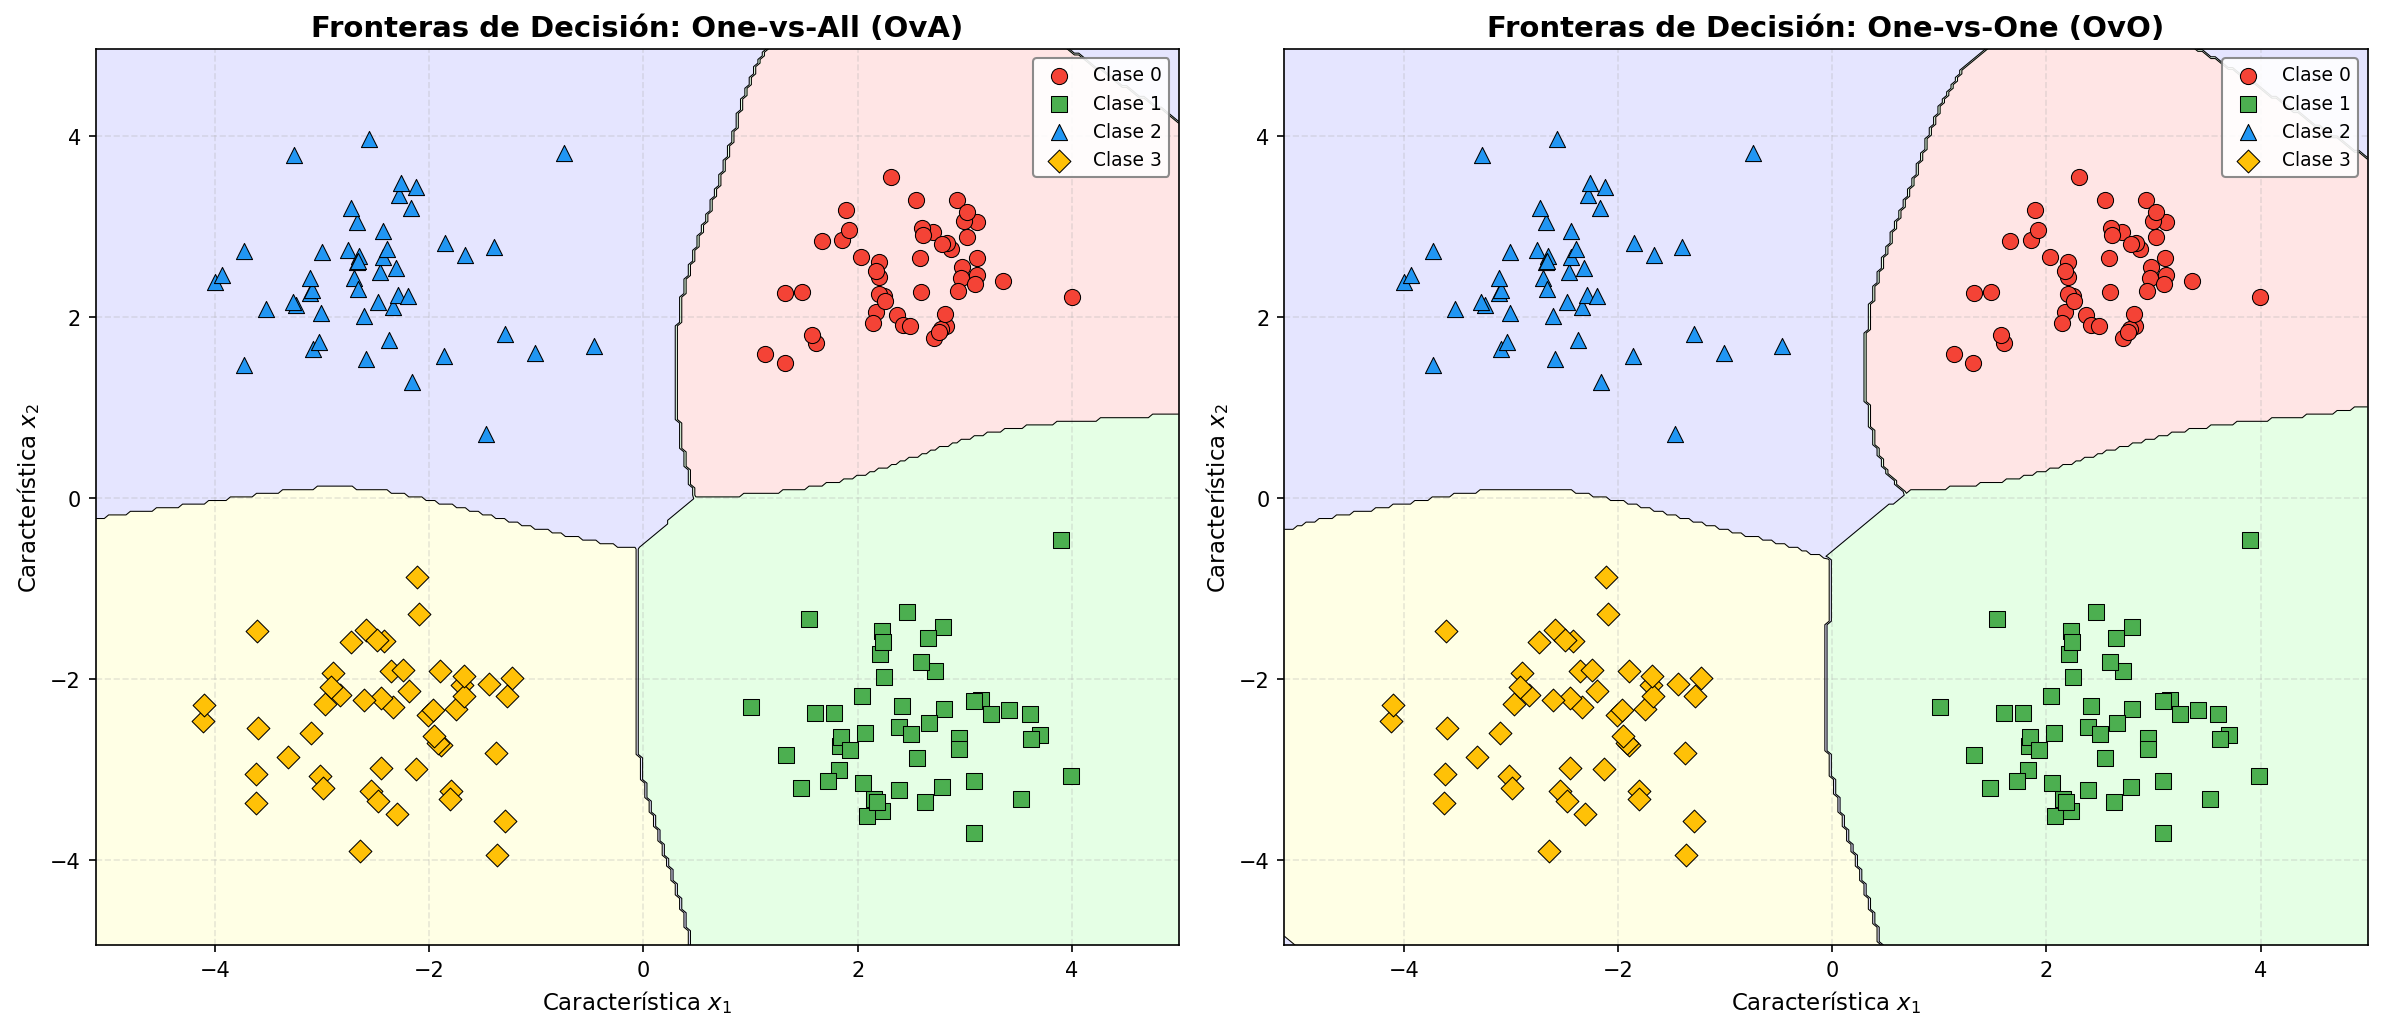
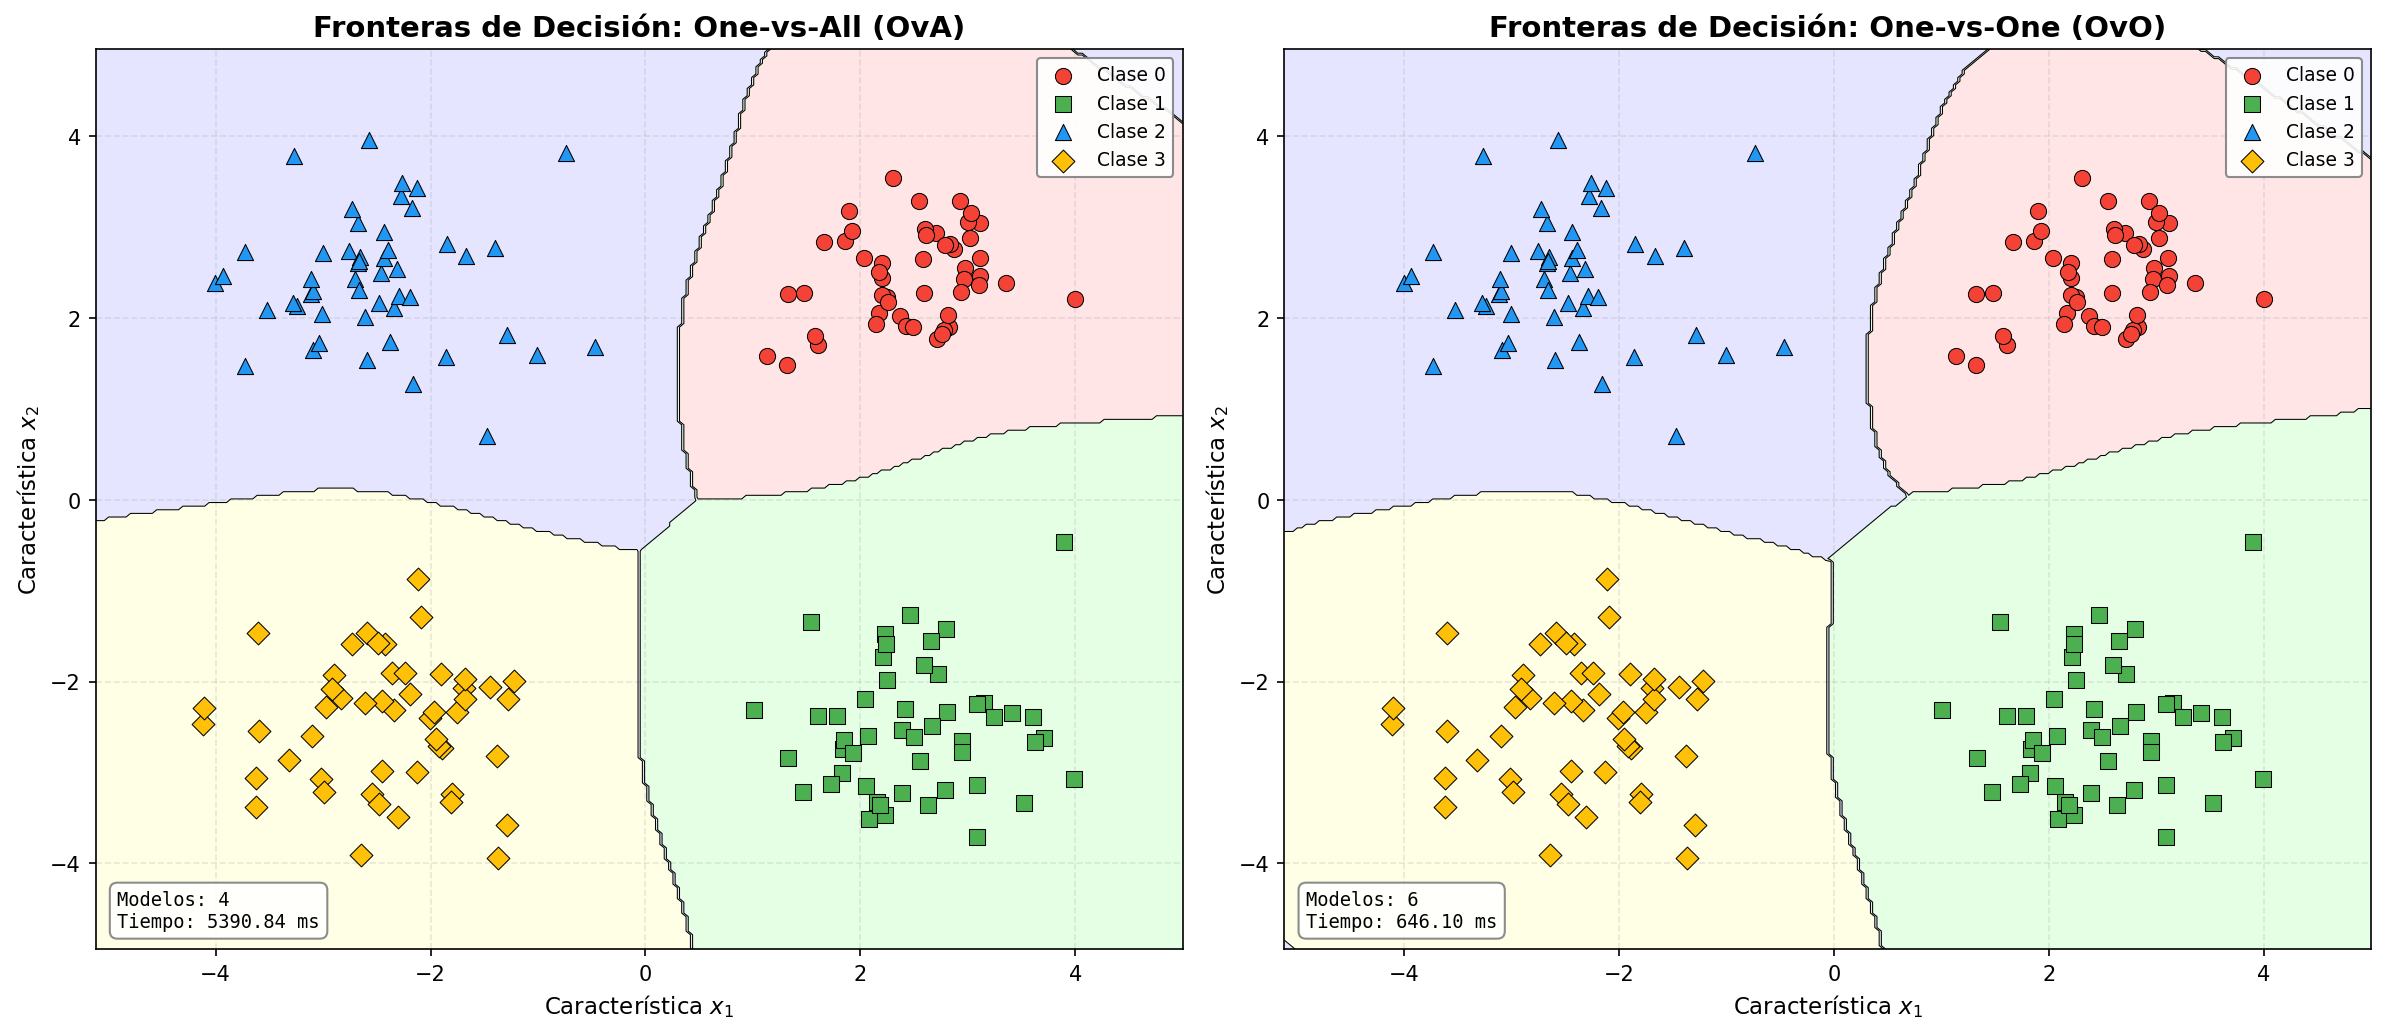
docs: overhaul README with project results and update visualization tool to include training benchmarks

diff --git a/core/visualization.py b/core/visualization.py
@@ -223,7 +223,7 @@ def plot_kernel_results(
     plt.close()
 
 
-def plot_regions(ax: Any, classifier: Any, X: NDArray[np.float64], y: NDArray[np.int8], title: str, method: str = 'OVA') -> None:
+def plot_regions(ax: Any, classifier: Any, X: NDArray[np.float64], y: NDArray[np.int8], title: str, method: str = 'OVA', elapsed_ms: float | None = None) -> None:
     x_min, x_max = X[:, 0].min() - 1, X[:, 0].max() + 1
     y_min, y_max = X[:, 1].min() - 1, X[:, 1].max() + 1
     xx, yy = np.meshgrid(np.linspace(x_min, x_max, 250),
@@ -256,3 +256,14 @@ def plot_regions(ax: Any, classifier: Any, X: NDArray[np.float64], y: NDArray[np
     ax.set_ylabel('Característica $x_2$', fontsize=11)
     ax.legend(loc='upper right', fontsize=9, framealpha=0.9, edgecolor='gray')
     ax.grid(True, alpha=0.3, linestyle='--')
+
+    # Anotar tiempo de entrenamiento si fue proporcionado
+    if elapsed_ms is not None:
+        n_models = 4 if method == 'OVA' else 6
+        time_text = f'Modelos: {n_models}\nTiempo: {elapsed_ms:.2f} ms'
+        ax.text(
+            0.02, 0.02, time_text, transform=ax.transAxes, fontsize=9,
+            verticalalignment='bottom', fontfamily='monospace',
+            bbox=dict(boxstyle='round,pad=0.4', facecolor='white', edgecolor='gray', alpha=0.9),
+            zorder=5,
+        )

diff --git a/multiclass_classifier/main.py b/multiclass_classifier/main.py
@@ -183,8 +183,8 @@ def main():
     fig, (ax1, ax2) = plt.subplots(1, 2, figsize=(16, 7))
     comparator = MulticlassComparator(clf_ova, clf_ovo)
     
-    plot_regions(ax1, comparator, X, y, 'Fronteras de Decisión: One-vs-All (OvA)', method='OVA')
-    plot_regions(ax2, comparator, X, y, 'Fronteras de Decisión: One-vs-One (OvO)', method='OVO')
+    plot_regions(ax1, comparator, X, y, 'Fronteras de Decisión: One-vs-All (OvA)', method='OVA', elapsed_ms=t_ova)
+    plot_regions(ax2, comparator, X, y, 'Fronteras de Decisión: One-vs-One (OvO)', method='OVO', elapsed_ms=t_ovo)
     
     fig.tight_layout()
     save_path = os.path.join(assets_dir, 'benchmark_multiclase.png')

diff --git a/README.md b/README.md
@@ -1,83 +1,122 @@
-# Máquinas de Vectores de Soporte (SVM) desde Cero
+# Máquinas de Vectores de Soporte (SVM) — Informe de Resultados
 
-Este repositorio contiene la implementación desde cero de diferentes variaciones del algoritmo de Máquinas de Vectores de Soporte (SVM), desarrolladas en Python.
-
-## Archivos y Modelos
-
-Cada directorio contiene la implementación y el archivo principal de una variación particular de SVM. A continuación, un resumen de qué trata cada archivo:
-
-1. **Modelo Lineal (Hard Margin)** - `hard_margin/main.py`: 
-   El algoritmo base original para datos perfectamente separables.
-
-2. **Modelo Suavizado (Soft Margin)** - `soft_margin/main.py`: 
-   El algoritmo que incorpora variables de holgura ($\epsilon$) para detectar cuándo los datos no son separables y tolerar errores en el margen.
-
-3. **Modelo de Núcleo (Kernel Trick)** - `dual_kernel/main.py`: 
-   La resolución del problema dual aplicando Kernels (como el Gaussiano) para clasificar datos no separables linealmente.
-
-4. **Multiclasificación** - `multiclass_classifier/main.py`: 
-   La aplicación de las estrategias "Uno contra Todos" (OvA) y "Uno contra Uno" (OvO) sobre el modelo de núcleo para clasificar conjuntos de 4 o más clases, comparando sus tiempos de ejecución.
+Implementación desde cero de cuatro variaciones del algoritmo SVM, desarrolladas en Python con `numpy`, `scipy` y `matplotlib`. Cada sección corresponde a una asignación del proyecto y presenta los resultados visuales generados por los scripts.
 
 ---
 
-## Requisitos y Configuración del Entorno
+## 1. Modelo Lineal Estricto (Hard Margin SVM)
 
-Para ejecutar cualquiera de estos modelos, debes tener **Python** instalado en tu sistema. Además, se debe utilizar un entorno virtual para instalar y aislar las dependencias del proyecto.
+**Script:** `hard_margin/main.py`
 
-Sigue estos pasos en el directorio raíz del proyecto (`svm_algorithms`) para prepararlo:
+Resuelve el problema primal $\min_{w,b} \frac{1}{2}\|w\|^2$ sujeto a $y_i(w^\top x_i + b) \geq 1$, encontrando el hiperplano de margen máximo para datos linealmente separables en 2D. Al aplicarse sobre datos superpuestos, el solver falla, demostrando la limitación del modelo.
 
-### 1. Crear el Entorno Virtual
-Abre una terminal y ejecuta el siguiente comando para crear un entorno virtual llamado `.venv`:
+### Resultados
+
+![Hard Margin — Datos Separables](./assets/hard_margin/hard_margin_separables.png)
+
+![Hard Margin — Datos No Separables](./assets/hard_margin/hard_margin_no_separables.png)
+
+### Observaciones
+
+- En datos separables, el solver converge exitosamente identificando **3 vectores de soporte** con un margen geométrico de ~10.00. El hiperplano y las bandas de margen $\pm1$ encapsulan correctamente los puntos más cercanos de cada clase.
+- En datos superpuestos, el solver reporta **"Optimización Fallida"** (*Positive directional derivative for linesearch*), confirmando que las restricciones rígidas $y_i(w^\top x_i + b) \geq 1$ son incompatibles cuando las clases se intersectan. Esto justifica la necesidad del Soft Margin.
+
+---
+
+## 2. Identificador de Separabilidad (Soft Margin SVM)
+
+**Script:** `soft_margin/main.py`
+
+Incorpora variables de holgura ($\xi_i$) y el hiperparámetro de penalización $C$ mediante la formulación dual, permitiendo tolerar errores dentro del margen. Se evalúan cuatro kernels (Gaussiano, Polinomial, Lineal y Sigmoide) sobre datasets no lineales (`moons`, `circles`) para diagnosticar la separabilidad en el espacio de características inducido.
+
+### Resultados
+
+![Soft Margin — Kernel Gaussiano (Moons)](./assets/soft_margin/svm_soft-margin_-_kernel_gaussiano_(moons).png)
+
+![Soft Margin — Kernel Polinomial (Circles)](./assets/soft_margin/svm_soft-margin_-_kernel_polinomial_(circles).png)
+
+![Soft Margin — Kernel Lineal (Moons)](./assets/soft_margin/svm_soft-margin_-_kernel_lineal_(moons).png)
+
+![Soft Margin — Kernel Sigmoide (Moons)](./assets/soft_margin/svm_soft-margin_-_kernel_sigmoide_(moons).png)
+
+### Observaciones
+
+- El **kernel Gaussiano** ($\gamma=2.0$, $C=5.0$) logra una frontera curva que separa las medias lunas con solo **13 vectores de soporte** y apenas 3 violaciones de margen ($\xi > 0$), demostrando alta separabilidad en el espacio inducido por $\phi$.
+- El **kernel Lineal** fracasa visiblemente: genera **52 vectores de soporte** y **49 violaciones**, ya que fuerza un hiperplano recto sobre datos intrínsecamente no lineales. La gran cantidad de $\xi_i > 0$ confirma que los datos no son separables en el espacio original $\mathbb{R}^2$.
+- Los kernels **Polinomial** y **Sigmoide** ofrecen resultados intermedios, mostrando cómo la elección del kernel y sus hiperparámetros determina la calidad de la frontera de decisión.
+
+---
+
+## 3. Clasificador No Lineal (Problema Dual + Kernel Trick)
+
+**Script:** `dual_kernel/main.py`
+
+Aplica la formulación dual con kernel Gaussiano (RBF) y Polinomial sobre datos distribuidos en anillos concéntricos, donde no existe hiperplano lineal posible. La función de decisión se construye enteramente en el espacio de características implícito $\phi(x)$ mediante la matriz de Gram.
+
+### Resultados
+
+![Kernel Trick — RBF](./assets/dual_kernel/reporte_visual_rbf.png)
+
+![Kernel Trick — Polinomial](./assets/dual_kernel/reporte_visual_poly.png)
+
+### Observaciones
+
+- El **kernel RBF** ($C=5.0$, $\gamma=1.0$) genera una frontera de decisión cerrada que envuelve el clúster central, separando correctamente la distribución concéntrica de anillos. Se identifican **88 vectores de soporte**, consistente con la complejidad circular de la frontera.
+- El **kernel Polinomial** (grado 2) produce una frontera menos ajustada. Al operar con una transformación de menor dimensionalidad que el RBF, no captura con la misma fidelidad la geometría radial de los datos.
+
+---
+
+## 4. Multiclasificación (4 clases)
+
+**Script:** `multiclass_classifier/main.py`
+
+Extiende el clasificador binario a 4 clases comparando dos estrategias de descomposición: **One-vs-All** (OvA), que entrena $N$ clasificadores, y **One-vs-One** (OvO), que entrena $\frac{N(N-1)}{2}$ clasificadores. OvO opera sobre subconjuntos más pequeños, lo que generalmente resulta en menor tiempo total de entrenamiento.
+
+### Resultados
+
+![Benchmark Multiclase — OvA vs OvO](./assets/multiclass_classifier/benchmark_multiclase.png)
+
+### Comparativa de Estrategias
+
+| Estrategia | Cantidad de Clasificadores | Tiempo de Ejecución Total |
+|:----------:|:--------------------------:|:-------------------------:|
+| One-vs-All (OvA) | 4 | ~5390 ms |
+| One-vs-One (OvO) | 6 | ~646 ms |
+
+### Observaciones
+
+- Aunque OvO entrena **más clasificadores** (6 vs 4), cada uno opera sobre subconjuntos de ~100 muestras en lugar de las 200 completas. Dado que la complejidad del solver SLSQP crece supralinealmente con $n$, OvO resulta **~8.3x más rápido** en tiempo total de entrenamiento.
+- Visualmente, ambas estrategias producen fronteras de decisión similares para las 4 clases, pero las regiones de OvO presentan transiciones ligeramente más definidas al resolver cada par de clases de forma aislada.
+
+---
+
+## Apéndice: Requisitos y Ejecución
+
+### Configuración del Entorno
+
 ```bash
+# 1. Crear el entorno virtual
 python -m venv .venv
-```
 
-### 2. Activar el Entorno Virtual
-El comando de activación varía según tu sistema operativo:
+# 2. Activar el entorno virtual
+# Windows:
+.venv\Scripts\activate
+# Mac / Linux:
+source .venv/bin/activate
 
-- **En Windows:**
-  ```cmd
-  .venv\Scripts\activate
-  ```
-
-- **En Mac / Linux:**
-  ```bash
-  source .venv/bin/activate
-  ```
-*(Sabrás que el entorno se activó correctamente porque verás `(.venv)` antes del nombre de usuario en tu terminal).*
-
-### 3. Instalar las Librerías
-Con el entorno activo, instala las librerías necesarias (`numpy`, `scipy`, `matplotlib`) mediante:
-```bash
+# 3. Instalar dependencias
 pip install -r requirements.txt
 ```
 
----
+### Ejecución de los Scripts
 
-## Cómo Ejecutar Cada Archivo
+Desde el directorio raíz (`svm_algorithms`), con el entorno activo:
 
-Una vez activado el entorno virtual e instaladas las librerías, asegúrate de estar posicionado en el directorio raíz (`svm_algorithms`). 
-
-A continuación se muestran los comandos explícitos para correr cada modelo:
-
-**Para correr el Modelo Lineal (Hard Margin):**
 ```bash
 python -m hard_margin.main
-```
-
-**Para correr el Modelo Suavizado (Soft Margin):**
-```bash
 python -m soft_margin.main
-```
-
-**Para correr el Modelo de Núcleo (Kernel Trick):**
-```bash
 python -m dual_kernel.main
-```
-
-**Para correr las Estrategias de Multiclasificación:**
-```bash
 python -m multiclass_classifier.main
 ```
 
-Al ejecutar los scripts, podrás ver los resultados en la consola (como los vectores de soporte encontrados o los tiempos del benchmark). Además, **todos los resultados visuales y gráficos generados se guardarán automáticamente en la carpeta `assets/`**, agrupados por algoritmo.
+Al ejecutar los scripts, los resultados visuales se guardan automáticamente en la carpeta `assets/`, agrupados por algoritmo.